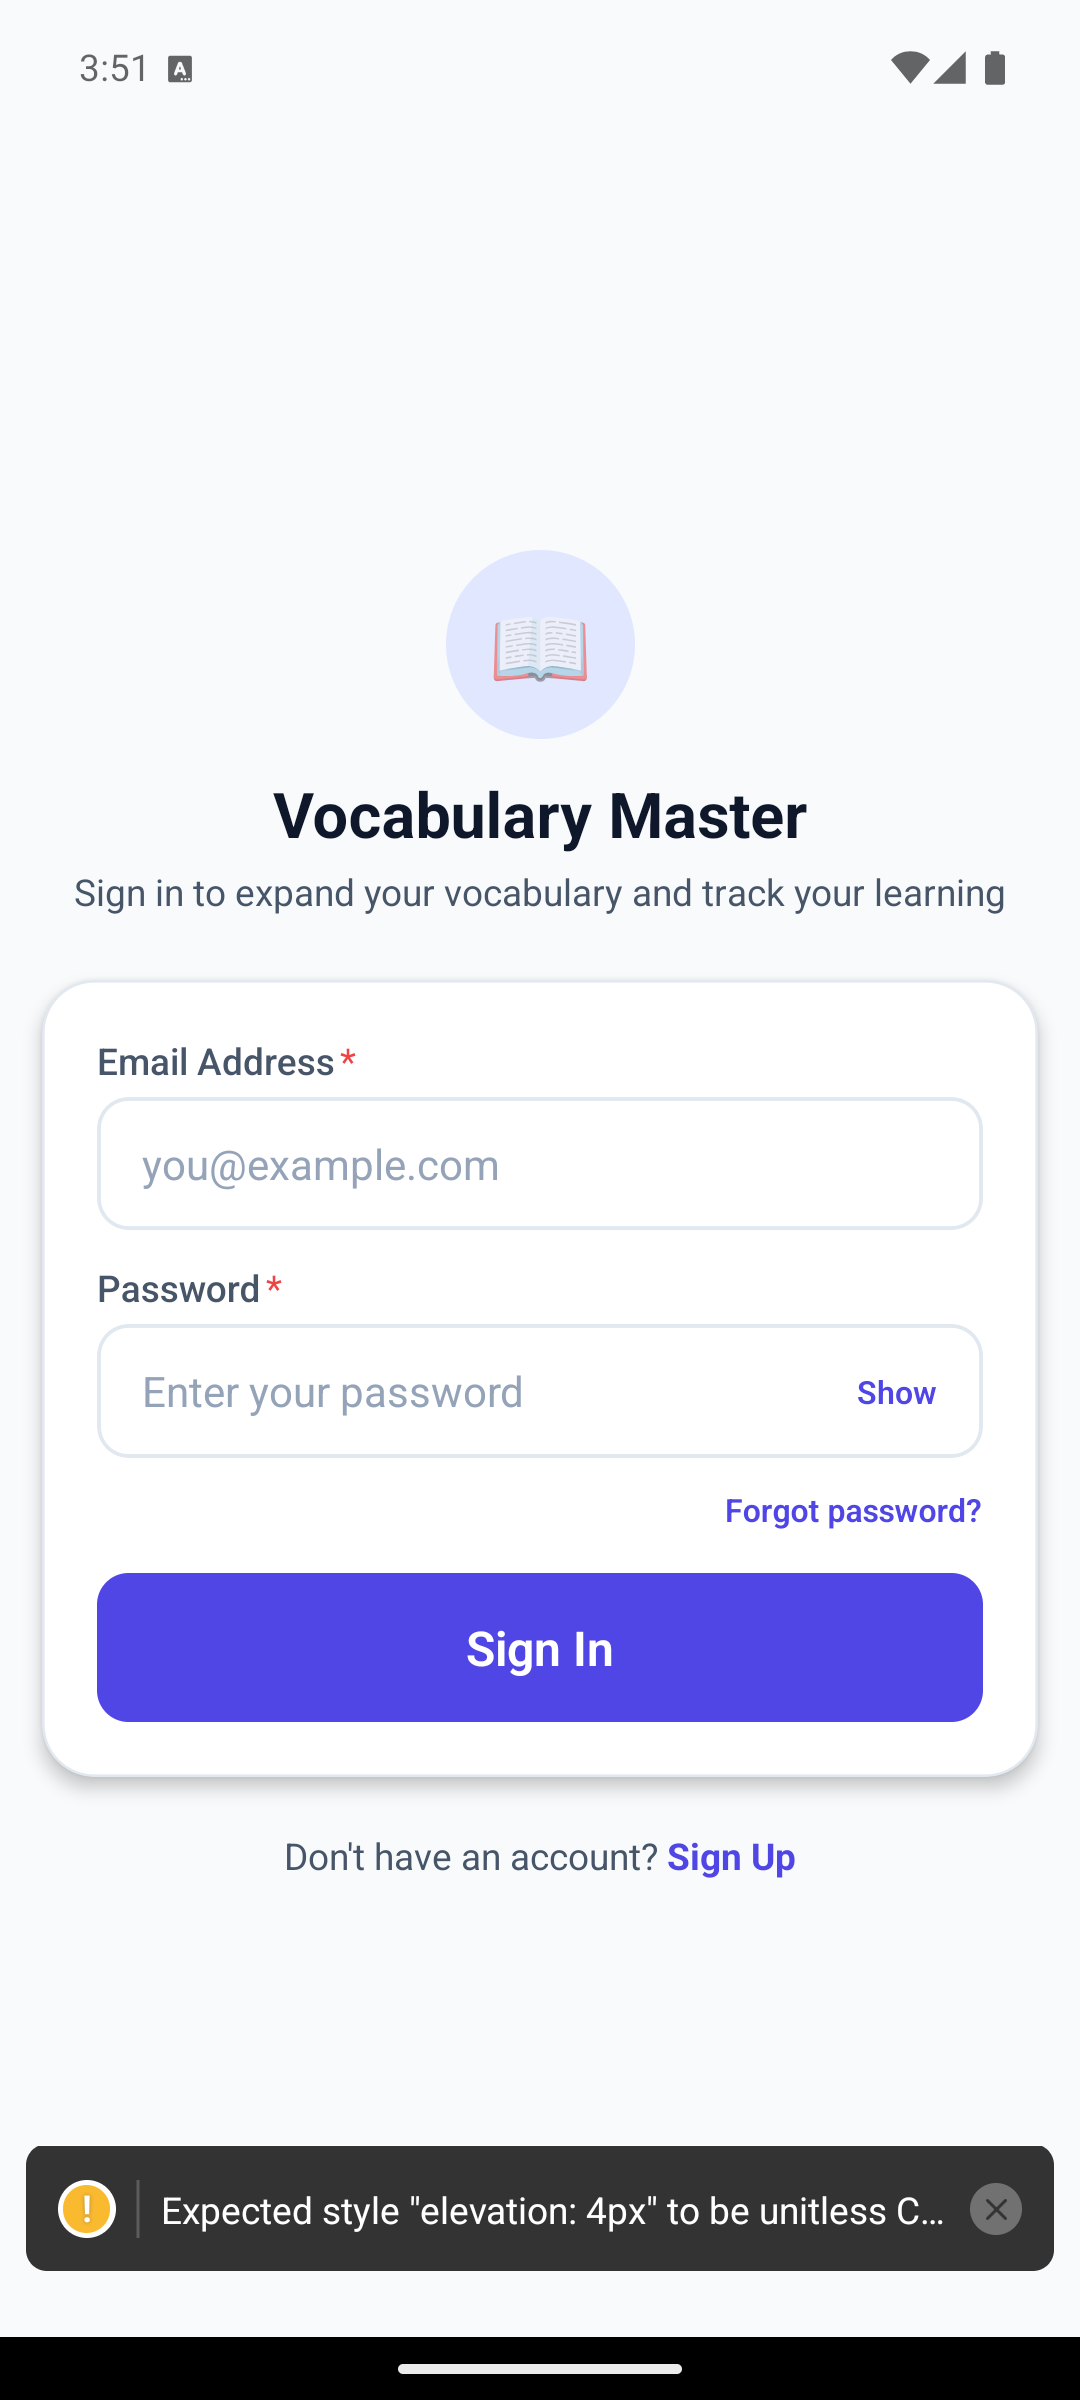
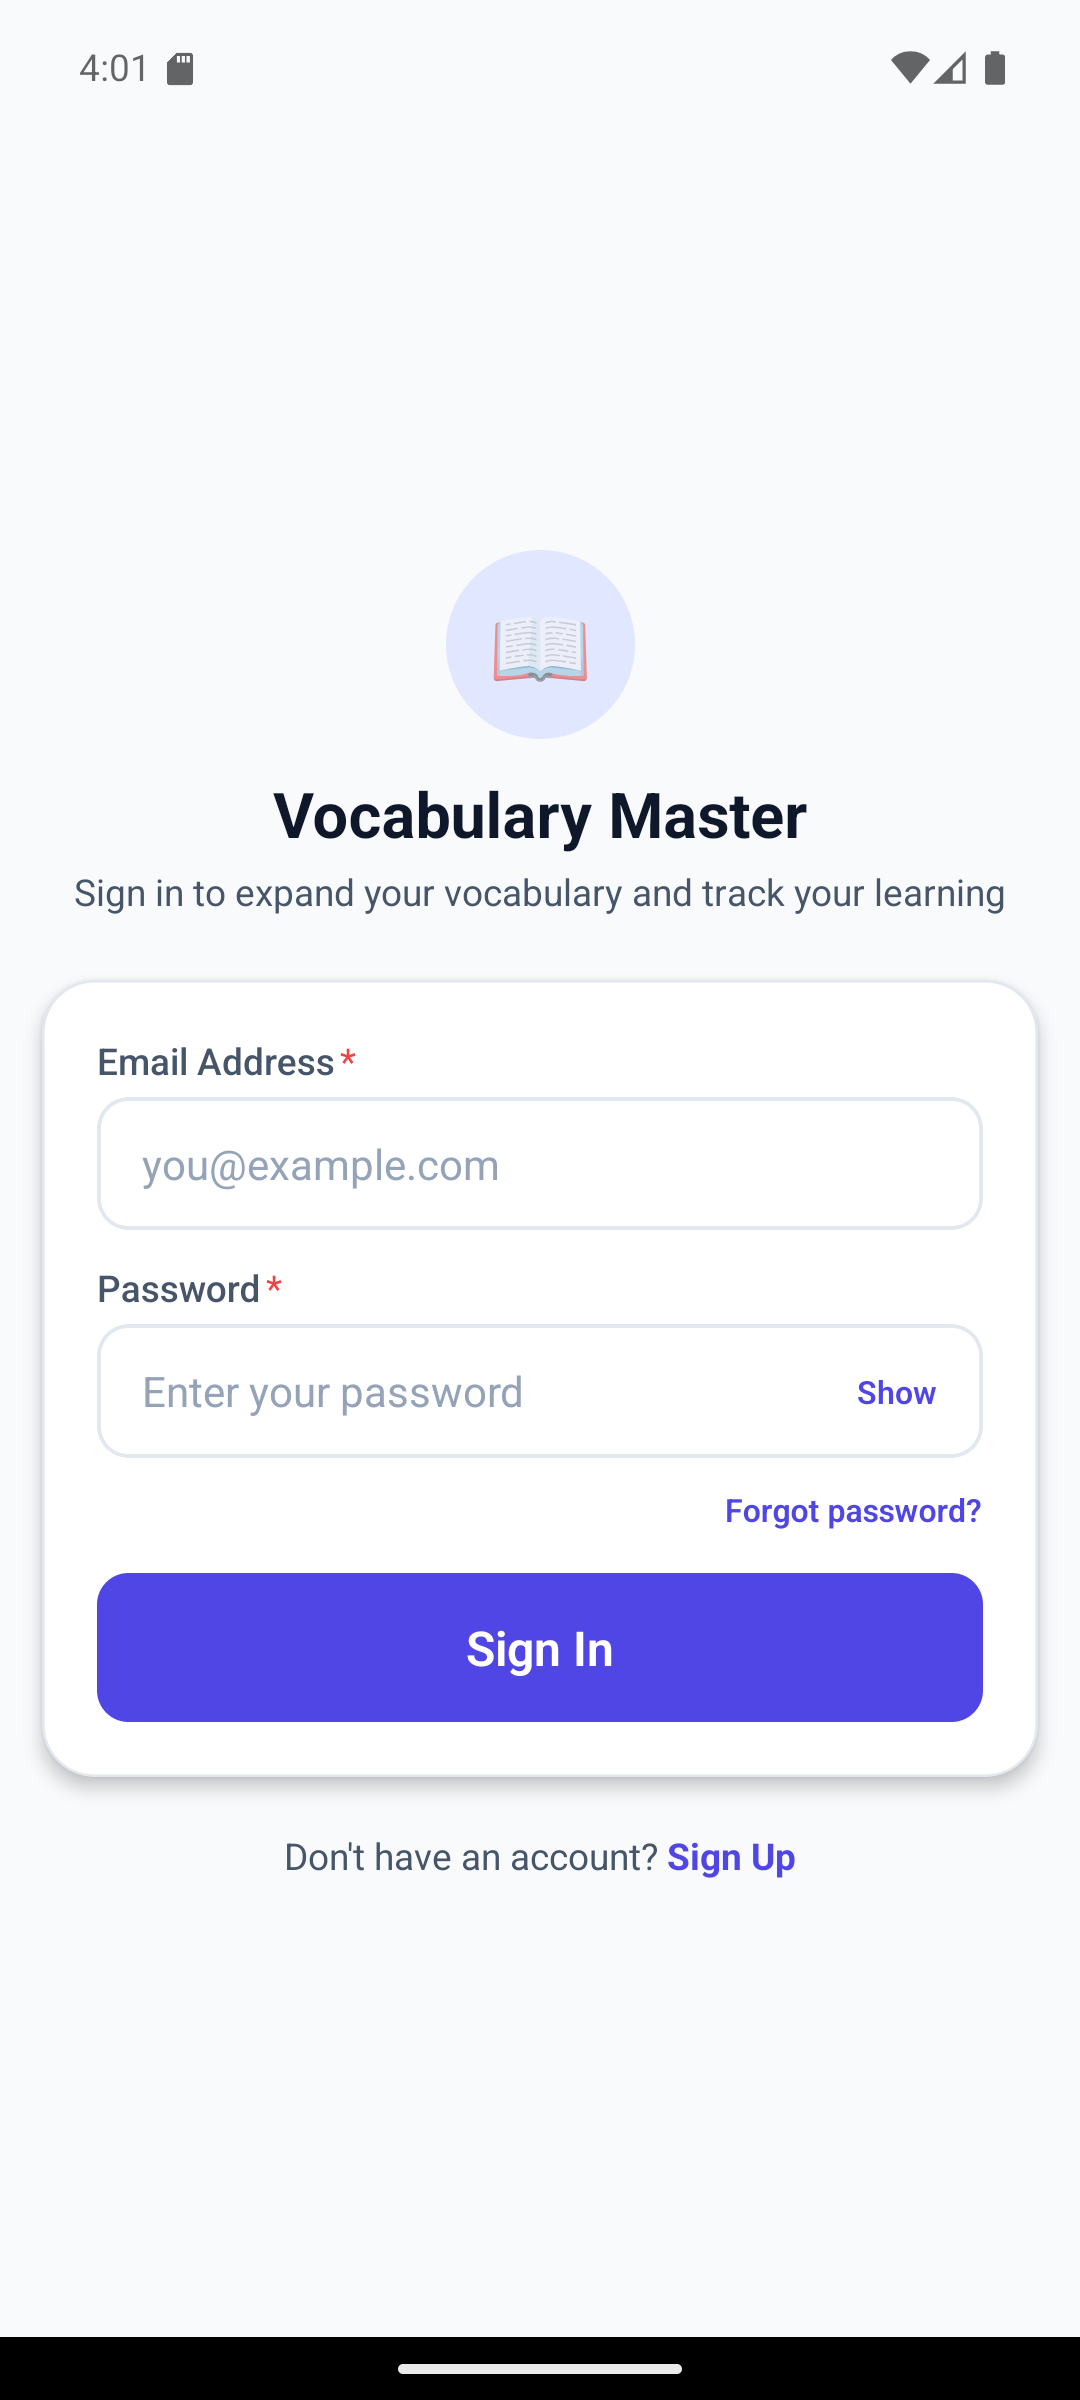
Add react-native-get-random-values polyfill for AWS Cognito

Changed region(s): [[0.0, 0.875, 0.9778, 0.9688], [0.1528, 0.0, 0.1833, 0.0312]]

diff --git a/index.js b/index.js
@@ -1,3 +1,4 @@
+import 'react-native-get-random-values';
 import { AppRegistry } from 'react-native';
 import App from './src/App';
 import { name as appName } from './app.json';
